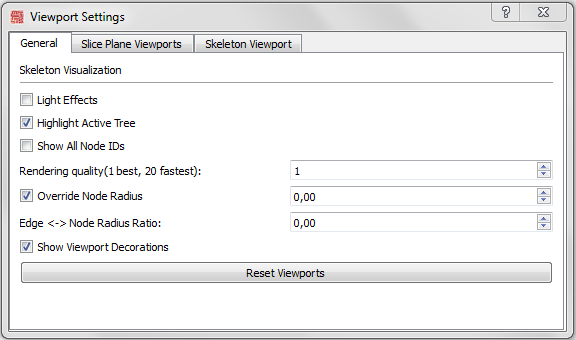
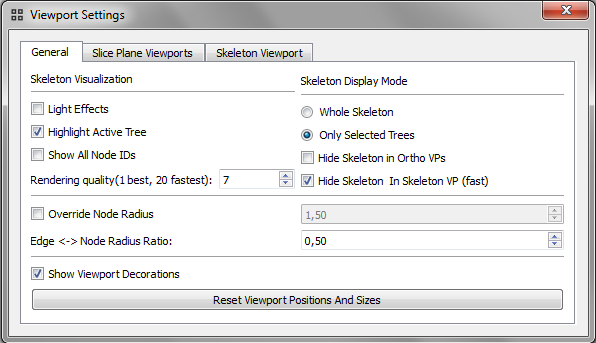
updated documentation, removed "set as active node" from context menu in treeview

diff --git a/doc/documentation.html b/doc/documentation.html
@@ -44,21 +44,25 @@
                               neurons, and displays a three dimensional model of
                               it.<br />
                               <hr style="color: black;" />
-                              <div style="text-align: center;">
-                                <h3 id="start"><span style="font-weight: bold;">Launching KNOSSOS</span></h3>
-                                <span style="color: red;"></span></div>
-                              <ul>
-                                <li>Execute KNOSSOS 4.0.</li>
-                                <li>Choose the desired dataset at the top-left menu entry: "Dataset" -&gt; "Open".</li>
-                                <li>Load a dataset with "Select Dataset Path" or choose from previously used datasets in the drop down menu.</li>
-                                <li>On exit, Knossos remembers the last used dataset and automatically loads it on next start.</li>
-                              </ul>
+							  <div style="text-align: center;">
+								<h3 id="start"><span style="font-weight: bold;">Launching KNOSSOS</span></h3>
+								<span style="color: red;"></span></div>
+							  <ul>
+								<li>Execute KNOSSOS 4.0.</li>
+								<li>Choose the desired dataset at the top-left menu entry: "File" -&gt; "Load Dataset...".</li>
+								<li>Load a dataset with "Select Dataset Path" or choose from previously used datasets in the drop down menu.</li>
+								<li>The <b>Data cache cube edge length</b> option sets the <b>Supercube Edge</b>, i.e. the number of cubes to be loaded per viewport. Higher numbers require more memory.
+									<ul>
+										<li>A supercube edge size of 5 is optimal for tracing (requires 250 MB RAM).
+										The settings 7 (686 MB RAM-Speicher) or 3 (54 MB RAM) are also sensible.</li>
+										<li>When changing the supercube edge size, a newstart of Knossos is required.</li>
+									</ul></li>
+								<li>On exit, Knossos remembers the last used dataset and automatically loads it on next start.</li>
+							  </ul>
                               <div style="text-align: center;"><img alt="Launching Knossos"
 
                                   src="images/Tut_loadDataset.png" /><br />
                               </div>
-                              <ul>
-                              </ul>
                               <div style="text-align: center;">
                                 <div style="text-align: left;">
                                   <hr style="height: 1px; margin-top: 7px;" />
@@ -449,18 +453,7 @@
                               <ul>
                                 <li><a href="#Dataset_Preparation">1 Preparing
                                     your Dataset</a></li>
-                                <li><a href="#Knossos_Starter">2 Knossos Starter</a>
-                                  <ul>
-                                    <li><a href="#Add_Dataset">2.1 Add Dataset</a></li>
-                                    <li><a href="#Profile">2.2 Profile</a></li>
-                                    <li><a href="#Remove_Dataset">2.3 Remove
-                                        Dataset</a></li>
-                                    <li><a href="#Select_dataset">2.4 Select
-                                        dataset</a></li>
-                                    <li><a href="#Supercube_edge">2.5 Supercube
-                                        edge</a></li>
-                                  </ul>
-                                </li>
+                                <li><a href="#Launching_Knossos">2 Launching Knossos</a></li>
                                 <li><a href="#Knossos">3 Knossos</a>
                                   <ul>
                                     <li><a href="#Branch_points_.5Bbranchpoints.5D">3.1
@@ -677,6 +670,8 @@
                                                 Skeleton Visualization</a></li>
                                             <li><a href="#Skeleton_Rendering_Model">3.16.1.2
                                                 Rendering Quality</a></li>
+											<li><a href="#Skeleton_Display_Modes">3.16.1.3
+                                                Skeleton Display Modes</a></li>
                                           </ul>
                                         </li>
                                         <li><a href="#Slice_Plane_Viewports">3.16.2
@@ -697,8 +692,8 @@
                                         <li><a href="#Skeleton_Viewport">3.16.3
                                             Skeleton Viewport</a>
                                           <ul>
-                                            <li><a href="#Skeleton_Display_Modes">3.16.3.1
-                                                Skeleton Display Modes</a></li>
+                                            <li><a href="#Dataset_Visualization">3.16.3.1
+                                                Dataset Visualization</a></li>
                                             <li><a href="#3D_View">3.16.3.3 3D
                                                 View</a></li>
                                           </ul>
@@ -775,77 +770,26 @@
                       nanometers. Set magnification to 1 unless you have
                       multiple downscaled versions of the same dataset that you
                       want to work with simultaneously.
-                      <hr style="color: black;" />
-                      <a name="Knossos_Starter" id="Knossos_Starter"></a>
-                      <h1>Knossos Starter </h1>
-                      When starting Knossos, you are asked in the Knossos
-                      Starter window to select a dataset, give a profile name
-                      and choose a value for Supercube edge, before you <b>run</b>
-                      Knossos.<br />
-                      <img width="247" height="354" border="0" alt="" src="images/Tut_KnossosStarter.jpg" />
-                      <a name="Add_Dataset" id="Add_Dataset"></a>
-                      <h3>Add Dataset</h3>
-                      <ul>
-                        <li> You can add a new dataset by clicking on the
-                          "+"-Button.
-                          <ul>
-                            <li> A window opens where you are asked to choose
-                              the dataset folder. Click on "Ok" after you
-                              selected the folder. </li>
-                          </ul>
-                        </li>
-                      </ul>
-                      <a name="Profile" id="Profile"></a>
-                      <h3>Profile</h3>
-                      <ul>
-                        <li> You can put in your name below "Profile" to load
-                          your Knossos profile (or to create it if the name has
-                          not been used before).
-                          <ul>
-                            <li> Knossos saves all your settings in Knossos
-                              under this name (assuming you close Knossos
-                              appropriately). </li>
-                            <li> You can reload them with this name the next
-                              time you start Knossos. </li>
-                          </ul>
-                        </li>
-                      </ul>
-                      <a name="Remove_Dataset" id="Remove_Dataset"></a>
-                      <h3>Remove Dataset</h3>
-                      <ul>
-                        <li> If you want to remove a dataset from the Knossos
-                          starter menue, simply select it and click on the
-                          "-"-Button to remove it. </li>
-                      </ul>
-                      <a name="Select_dataset" id="Select_dataset"></a>
-                      <h3>Select dataset</h3>
-                      <ul>
-                        <li> In order to run Knossos you have to select a
-                          dataset which will then be loaded.
-                          <ul>
-                            <li> Select a dataset in the upper field (if you
-                              started Knossos for the first time or if your
-                              directories have changed, you first have to add a
-                              dataset) and then press the "Run"-Button to load
-                              Knossos with the selected dataset. </li>
-                          </ul>
-                        </li>
-                      </ul>
-                      <a name="Supercube_edge" id="Supercube_edge"></a>
-                      <h3>Supercube edge</h3>
-                      <ul>
-                        <li> Here you can optionally choose how many cubes there
-                          will be loaded per viewport. </li>
-                        <li> The higher the number, the more cubes will be
-                          loaded. However this will then require more memory.
-                          <ul>
-                            <li> Change the Supercube Edge to 5 (requires 250 MB
-                              RAM) at each start. The setting 7 (686 MB
-                              RAM-Speicher) or 3 (54 MB RAM) is also possible,
-                              but 5 is optimal for tracing. </li>
-                          </ul>
-                        </li>
-                      </ul>
+                      
+					  <hr style="color: black;" />
+					  <div style="text-align: center;">
+						<a name="Launching Knossos" id="Launching_Knossos"/>
+						<h3 id="start"><span style="font-weight: bold;">Launching KNOSSOS</span></h3>
+						<span style="color: red;"></span></div>
+					  <ul>
+						<li>Execute KNOSSOS 4.0.</li>
+						<li>Choose the desired dataset at the top-left menu entry: "File" -&gt; "Load Dataset...".</li>
+						<li>Load a dataset with "Select Dataset Path" or choose from previously used datasets in the drop down menu.</li>
+						<li>The <b>Data cache cube edge length</b> option sets the <b>Supercube Edge</b>, i.e. the number of cubes to be loaded per viewport. Higher numbers require more memory.
+							<ul>
+								<li>A supercube edge size of 5 is optimal for tracing (requires 250 MB RAM).
+								The settings 7 (686 MB RAM-Speicher) or 3 (54 MB RAM) are also sensible.</li>
+								<li>When changing the supercube edge size, a newstart of Knossos is required.</li>
+							</ul></li>
+						<li>On exit, Knossos remembers the last used dataset and automatically loads it on next start.</li>
+					  </ul>
+					  <div style="text-align: center;"><img alt="Launching Knossos" src="images/Tut_loadDataset.png" /><br /></div>
+                      
                       <hr style="color: black;" />
                       <a name="Knossos" id="Knossos"></a>
                       <h1>Knossos </h1>
@@ -1494,6 +1438,9 @@
                             on the node list in the Tree View opens a context menu where
                             you can perform many operations on the selected nodes (see <a href="#Tree_View"
                             title="#Tree_View" rel="nofollow">here</a>).</li>
+						<li>If you have exactly one node selected, it becomes the active node. I.e. the next placed node will be connected to this one.</li>
+						<li>Also, when you place a new node, it becomes the next active node, so that the tracing can be continued.</li> 
+						<li><b>If no nodes are selected, the last annotated or edited node is automatically selected and made active.</b></li>
                       </ul>
                       <div style="text-align: center;"><img width="800" src="images/Tut_node_selection.png" alt="node selection" /><br /></div>
                       <a name="Tree_section" id="Tree_section"></a>
@@ -1650,7 +1597,6 @@
 							Select multiple entries not in a row by CTRL+clicking.</li>
 						<li>Perform operations on selected nodes by opening the context menu on them with a right click. The context menu includes:
 							<ul>
-							  <li>Set as active node (needs exactly one selected node)</li>
 							  <li>Split component from tree (splits the component containing this node from the tree, see
 								<a href="#Split_Trees_By_Connected_Components"
 								title="#Split_Trees_By_Connected_Components" rel="nofollow">Split Component from tree</a>)</li>
@@ -1968,15 +1914,26 @@
                           A higher quality reduces speed and vice versa, where a value of 1
                           ensures best quality and a value of 20 yields fastest rendering.</li>
                       </ul>
+					  <a name="Skeleton_Display_Modes" id="Skeleton_Display_Modes"></a>
+                      <h4>Skeleton Display Modes</h4>
+                      <ul>
+                        <li> Under "Skeleton Display Modes" you can configure how the skeleton should be displayed.
+                          <ul>
+                            <li> <b>Whole Skeleton</b> allows the whole loaded/traced skeleton to be displayed.</li>
+                            <li> <b>Only Selected Trees</b> allows only the trees to be displayed that are currently selected in the treeview (they are highlighted in green).</li>
+							<li> <b>Hide Skeleton in Ortho VPs</b> hides the skeleton in the three orthogonal viewports, but still shows it in the 3D View.</li>
+                            <li> <b>Hide Skeleton in Skeleton VP (fast)</b> hides the skeleton in the 3D viewport. This option is recommended, if your skeletons become very large
+                              and your computer gets slower and slower. Switching the trees off significantly improves the performance. </li>
+							<li>Note that if "Hide Skeleton in Ortho/Skeleton VP" are not checked and you still cannot see the whole skeleton, it might be that you have "Only Selected Trees" checked.</li>
+                          </ul>
+                        </li>
+                      </ul>
+					  
                       <a name="Slice_Plane_Viewports" id="Slice_Plane_Viewports"></a>
                       <h3>Slice Plane Viewports</h3>
                       <a name="Skeleton_Overlay" id="Skeleton_Overlay"></a>
                       <h4>Skeleton Overlay</h4>
                       <ul>
-                        <li> The option <b>Enable Overlay</b> turns the
-                          skeleton rendering in the 3 slice plane viewports on (default)
-                          and off.
-                        </li>
                         <li> If you enable <b>Highlight Intersections</b> then
                           the points at the skeleton where it intersects one of
                           the other slice planes will be highlighted in black. </li>
@@ -2049,27 +2006,11 @@
                       <a name="Skeleton_Viewport" id="Skeleton_Viewport"></a>
                       <h3>Skeleton Viewport</h3>
                       <img width="482" height="307" border="0" alt="" src="images/Tut_full_skelVPsettings.png" />
-                      <a name="Skeleton_Display_Modes" id="Skeleton_Display_Modes"></a>
-                      <h4>Skeleton Display Modes</h4>
-                      <ul>
-                        <li> Under "Skeleton Viewport" in the "Viewport
-                          Settings" you have the option to change the rendering
-                          of the skeleotn in the 3D viewport.
-                          <ul>
-                            <li> <b>Whole Skeleton</b> displays all
-                              loaded/traced skeletons at full length in the 3D
-                              viewport. </li>
-                            <li> <b>Only Active Tree</b> displays the complete
-                              tree of the skeleton which is currently active. </li>
-                            <li> <b>Hide Skeleton (fast)</b> does not render
-                              any skeleton in the 3D viewport. This option is
-                              recommended, if your skeletons become very large
-                              and your computer gets slower and slower.
-                              Switching the trees off significantly improves the
-                              performance. </li>
-                          </ul>
-                        </li>
-                      </ul>
+					  <a name="Dataset_Visualization" id="Dataset_Visualization"></a>
+                      <h4>Dataset Visualization</h4>
+					  <ul>
+                      <li>The buttons Show XY Plane, Show XZ Plane and Show YZ Plane switch the rendering of the grey planes in the 3D viewport around the current center of view on or off.</li>
+					  </ul>
                       <a name="3D_View" id="3D_View"></a>
                       <h4>3D View</h4>
                       <ul>

diff --git a/widgets/tools/toolstreeviewtab.cpp b/widgets/tools/toolstreeviewtab.cpp
@@ -303,30 +303,26 @@ void ToolsTreeviewTab::setTreeCommentAction() {
 void ToolsTreeviewTab::contextMenu(QPoint pos) {
     if (activeNodeTable->hasFocus()) {
         QMenu nodeContextMenu;
-        QObject::connect(nodeContextMenu.addAction("Jump to"), &QAction::triggered, this, &ToolsTreeviewTab::activateFirstSelectedNode);
         QObject::connect(nodeContextMenu.addAction("Split component from tree"), &QAction::triggered, this, &ToolsTreeviewTab::splitComponentAction);
         QObject::connect(nodeContextMenu.addAction(QIcon(":/images/icons/user-trash.png"), "(DEL)ete active node"), &QAction::triggered, this, &ToolsTreeviewTab::deleteNodesAction);
 
-        nodeContextMenu.actions().at(0)->setEnabled(state->skeletonState->selectedNodes.size() == 1);//jump to
-        nodeContextMenu.actions().at(1)->setEnabled(state->skeletonState->selectedNodes.size() == 1);//split connected components
-        nodeContextMenu.actions().at(2)->setEnabled(state->skeletonState->selectedNodes.size() == 1);//del active node
+        nodeContextMenu.actions().at(0)->setEnabled(state->skeletonState->selectedNodes.size() == 1);//split connected components
+        nodeContextMenu.actions().at(1)->setEnabled(state->skeletonState->selectedNodes.size() == 1);//del active node
         //display the context menu at pos in screen coordinates instead of widget coordinates of the content of the currently focused table
         nodeContextMenu.exec(activeNodeTable->viewport()->mapToGlobal(pos));
     } else if (nodeTable->hasFocus()) {
         QMenu nodeContextMenu;
-        QObject::connect(nodeContextMenu.addAction("Set as active node"), &QAction::triggered, this, &ToolsTreeviewTab::activateFirstSelectedNode);
         QObject::connect(nodeContextMenu.addAction("Split component from tree"), &QAction::triggered, this, &ToolsTreeviewTab::splitComponentAction);
         QObject::connect(nodeContextMenu.addAction("(Un)link nodes"), &QAction::triggered, this, &ToolsTreeviewTab::linkNodesAction);
         QObject::connect(nodeContextMenu.addAction("Set comment for node(s)"), &QAction::triggered, this, &ToolsTreeviewTab::setNodeCommentAction);
         QObject::connect(nodeContextMenu.addAction("Set radius for node(s)"), &QAction::triggered, this, &ToolsTreeviewTab::setNodeRadiusAction);
         QObject::connect(nodeContextMenu.addAction(QIcon(":/images/icons/user-trash.png"), "(DEL)ete node(s)"), &QAction::triggered, this, &ToolsTreeviewTab::deleteNodesAction);
 
-        nodeContextMenu.actions().at(0)->setEnabled(state->skeletonState->selectedNodes.size() == 1);//active node
-        nodeContextMenu.actions().at(1)->setEnabled(state->skeletonState->selectedNodes.size() == 1);//split connected components
-        nodeContextMenu.actions().at(2)->setEnabled(state->skeletonState->selectedNodes.size() == 2);//link nodes needs two selected nodes
+        nodeContextMenu.actions().at(0)->setEnabled(state->skeletonState->selectedNodes.size() == 1);//split connected components
+        nodeContextMenu.actions().at(1)->setEnabled(state->skeletonState->selectedNodes.size() == 2);//link nodes needs two selected nodes
+        nodeContextMenu.actions().at(2)->setEnabled(state->skeletonState->selectedNodes.size() > 0);
         nodeContextMenu.actions().at(3)->setEnabled(state->skeletonState->selectedNodes.size() > 0);
         nodeContextMenu.actions().at(4)->setEnabled(state->skeletonState->selectedNodes.size() > 0);
-        nodeContextMenu.actions().at(5)->setEnabled(state->skeletonState->selectedNodes.size() > 0);
         //display the context menu at pos in screen coordinates instead of widget coordinates of the content of the currently focused table
         nodeContextMenu.exec(nodeTable->viewport()->mapToGlobal(pos));
     } else if (activeTreeTable->hasFocus()) {
@@ -344,19 +340,17 @@ void ToolsTreeviewTab::contextMenu(QPoint pos) {
         treeContextMenu.exec(activeTreeTable->viewport()->mapToGlobal(pos));
     } else if (treeTable->hasFocus()) {
         QMenu treeContextMenu;
-        QObject::connect(treeContextMenu.addAction("Set as active tree"), &QAction::triggered, this, &ToolsTreeviewTab::activateFirstSelectedTree);
         QObject::connect(treeContextMenu.addAction("Move selected node(s) to this tree"), &QAction::triggered, this, &ToolsTreeviewTab::moveNodesAction);
         QObject::connect(treeContextMenu.addAction("Merge trees"), &QAction::triggered, this, &ToolsTreeviewTab::mergeTreesAction);
         QObject::connect(treeContextMenu.addAction("Set comment for tree(s)"), &QAction::triggered, this, &ToolsTreeviewTab::setTreeCommentAction);
         QObject::connect(treeContextMenu.addAction("Restore default color"), &QAction::triggered, this, &ToolsTreeviewTab::restoreColorAction);
         QObject::connect(treeContextMenu.addAction(QIcon(":/images/icons/user-trash.png"), "Delete tree(s)"), &QAction::triggered, this, &ToolsTreeviewTab::deleteTreesAction);
 
-        treeContextMenu.actions().at(0)->setEnabled(state->skeletonState->selectedTrees.size() == 1);//set as active tree action
-        treeContextMenu.actions().at(1)->setEnabled(state->skeletonState->selectedTrees.size() == 1 && state->skeletonState->selectedNodes.size() > 0);//move nodes
-        treeContextMenu.actions().at(2)->setEnabled(state->skeletonState->selectedTrees.size() == 2);//merge trees action
+        treeContextMenu.actions().at(0)->setEnabled(state->skeletonState->selectedTrees.size() == 1 && state->skeletonState->selectedNodes.size() > 0);//move nodes
+        treeContextMenu.actions().at(1)->setEnabled(state->skeletonState->selectedTrees.size() == 2);//merge trees action
+        treeContextMenu.actions().at(2)->setEnabled(state->skeletonState->selectedTrees.size() > 0);
         treeContextMenu.actions().at(3)->setEnabled(state->skeletonState->selectedTrees.size() > 0);
         treeContextMenu.actions().at(4)->setEnabled(state->skeletonState->selectedTrees.size() > 0);
-        treeContextMenu.actions().at(5)->setEnabled(state->skeletonState->selectedTrees.size() > 0);
         //display the context menu at pos in screen coordinates instead of widget coordinates of the content of the currently focused table
         treeContextMenu.exec(treeTable->viewport()->mapToGlobal(pos));
     }
